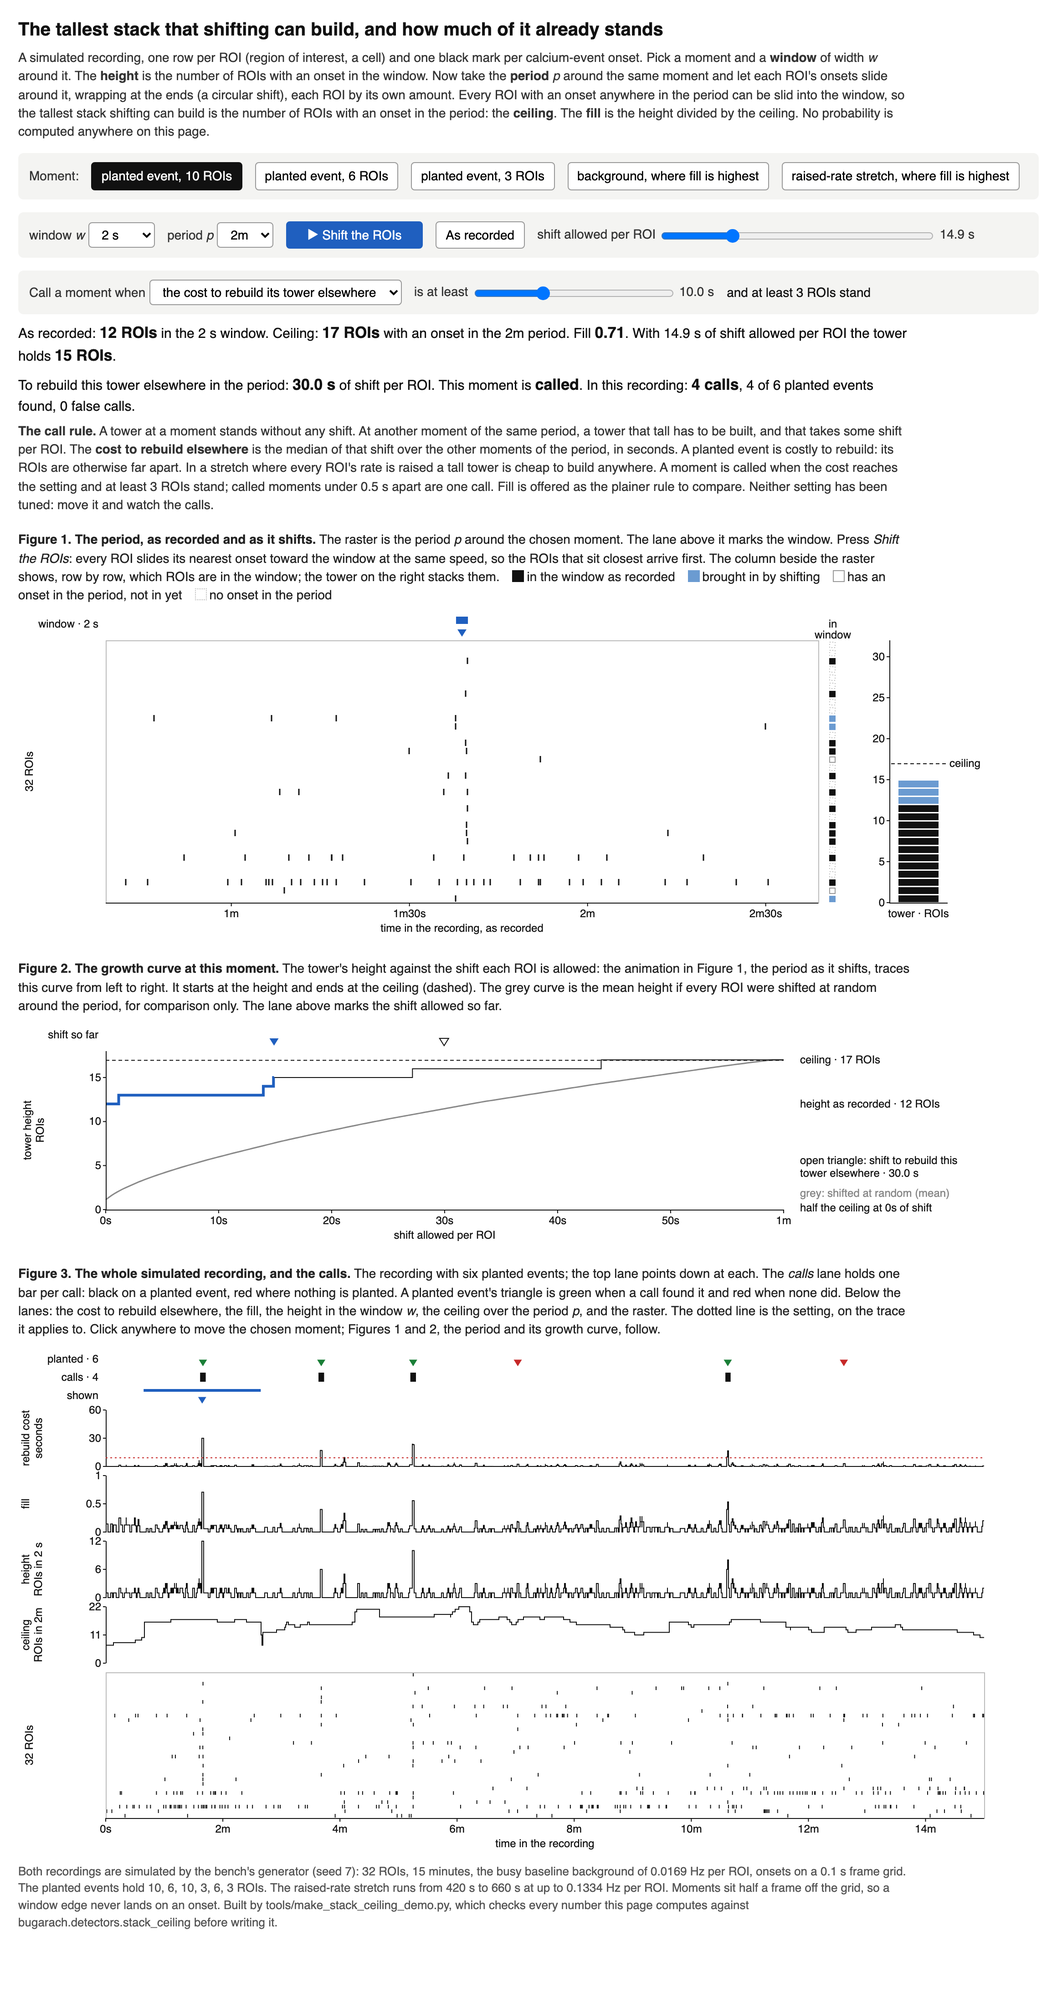
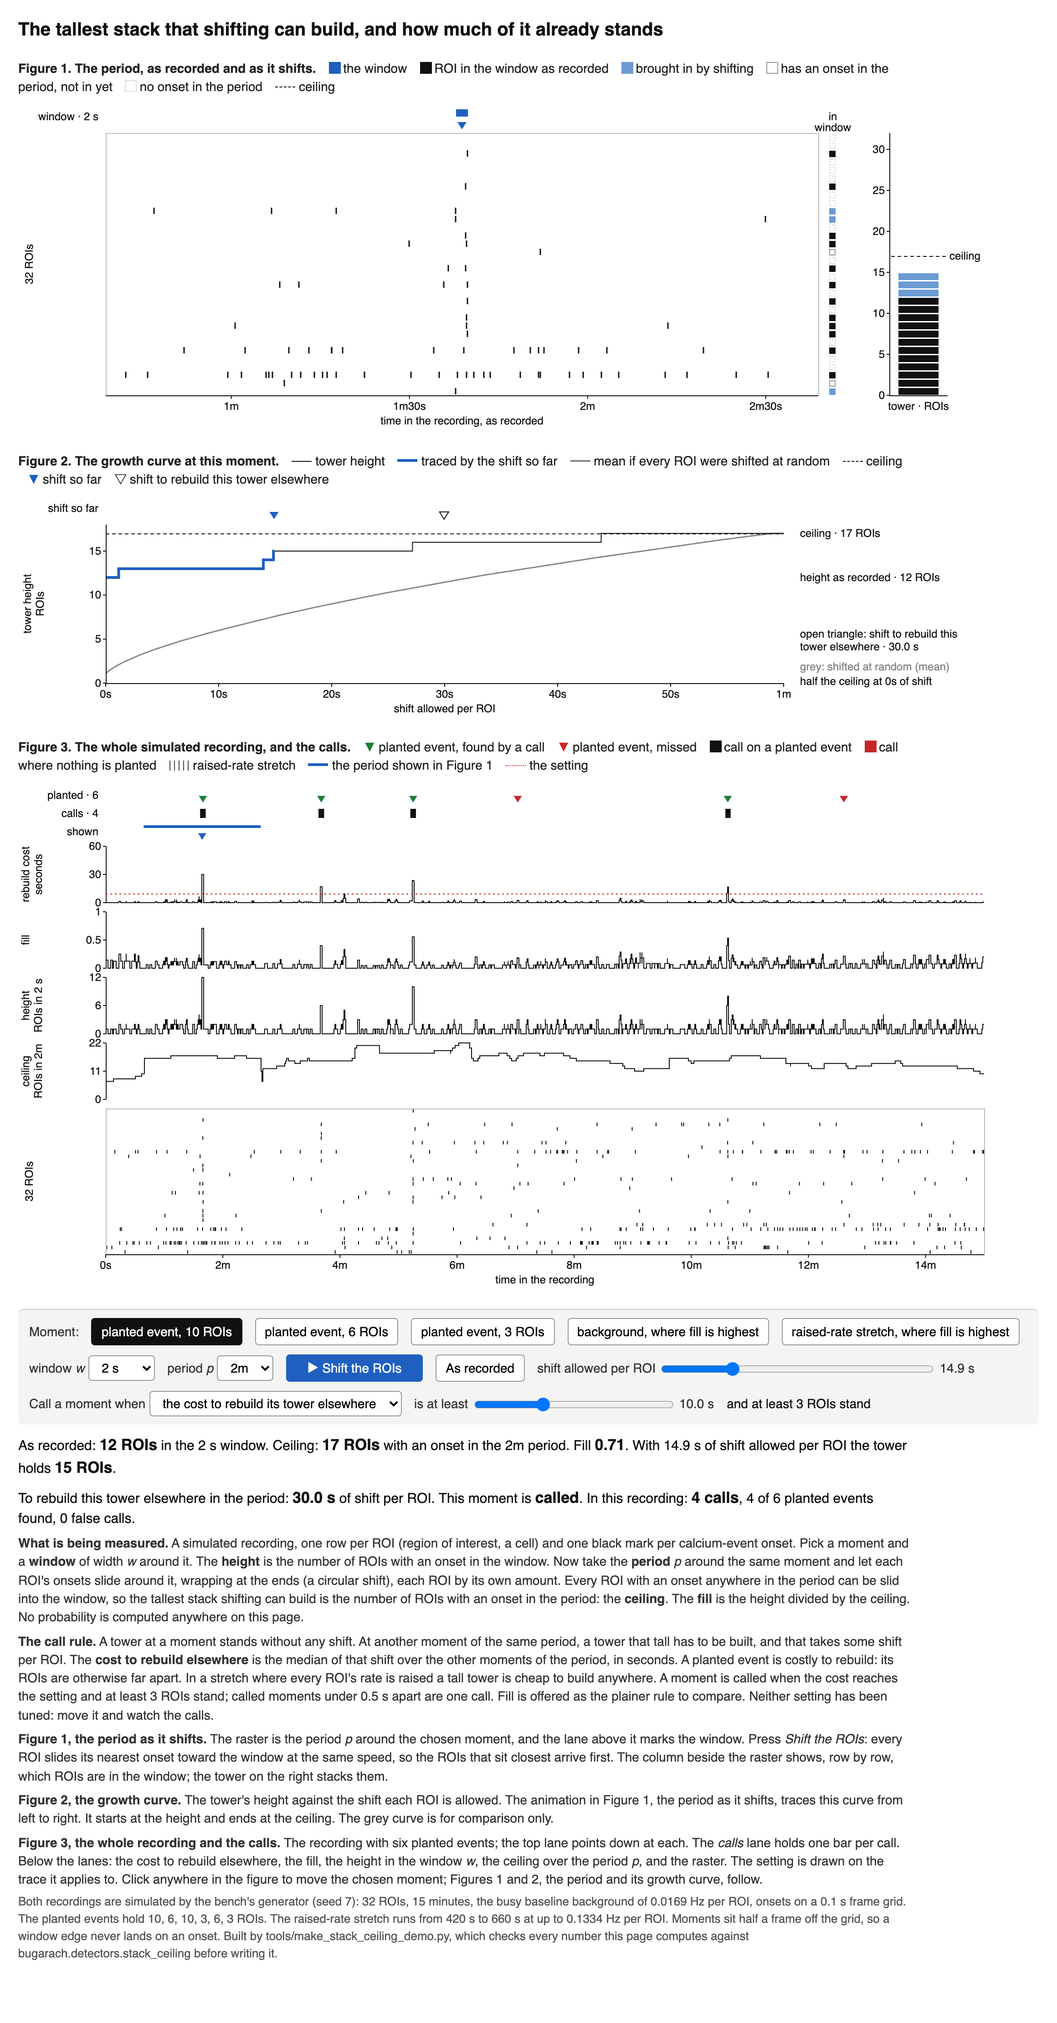
Stack ceiling page: figures first, then the tool row, then the text
Tony's layout: the three figures at the top, each with its legend, the controls after them and
the explanation last. The tool row keeps its place in the page after the figures and stays in
view while they are on screen, so the shift can be played while watching it.

diff --git a/docs/learned/runs/2026-10-08-stack-ceiling/explainer_stack-ceiling_20261008.html b/docs/learned/runs/2026-10-08-stack-ceiling/explainer_stack-ceiling_20261008.html
@@ -27,38 +27,88 @@
   .key { display: inline-block; width: 11px; height: 11px; vertical-align: -1px;
          margin: 0 3px 0 10px; border: 1px solid #111; }
   .note { color: #555; font-size: 13px; }
+  .line { display: inline-block; width: 22px; height: 0; vertical-align: 4px; margin: 0 4px 0 10px; }
+  .tri { margin: 0 3px 0 10px; }
+  .hash { display: inline-block; width: 22px; height: 11px; vertical-align: -1px; margin: 0 4px 0 10px;
+          background: repeating-linear-gradient(90deg, #444 0 1px, transparent 1px 5px); }
+  /* The tool row follows the figures in the page and stays in view while they are on screen. */
+  .tools { position: sticky; bottom: 0; z-index: 2; background: #f4f4f2; margin: 16px 0 10px;
+           padding: 4px 0; border-top: 1px solid #ccc; border-radius: 6px; }
+  .tools .controls { margin: 0; padding: 5px 12px; background: none; }
+  body.still .tools { position: static; }
 </style>
 </head>
 <body>
 <main>
 <h1>The tallest stack that shifting can build, and how much of it already stands</h1>
-<p class="how">A simulated recording, one row per ROI (region of interest, a cell) and one black
-mark per calcium-event onset. Pick a moment and a <b>window</b> of width <i>w</i> around it. The
-<b>height</b> is the number of ROIs with an onset in the window. Now take the <b>period</b>
-<i>p</i> around the same moment and let each ROI's onsets slide around it, wrapping at the ends
-(a circular shift), each ROI by its own amount. Every ROI with an onset anywhere in the period
-can be slid into the window, so the tallest stack shifting can build is the number of ROIs with
-an onset in the period: the <b>ceiling</b>. The <b>fill</b> is the height divided by the
-ceiling. No probability is computed anywhere on this page.</p>
+<figure>
+  <figcaption><b>Figure 1. The period, as recorded and as it shifts.</b>
+  <span class="key" style="background:#1f5fbf;border-color:#1f5fbf"></span>the window
+  <span class="key" style="background:#111"></span>ROI in the window as recorded
+  <span class="key" style="background:#6b9bd1;border-color:#6b9bd1"></span>brought in by shifting
+  <span class="key" style="background:#fff;border-color:#999"></span>has an onset in the period, not in yet
+  <span class="key" style="background:#fff;border:1px dotted #bbb"></span>no onset in the period
+  <span class="line" style="border-top:1px dashed #111"></span>ceiling
+  </figcaption>
+  <canvas id="fig1"></canvas>
+</figure>
 
-<div class="controls" id="scenes"><label>Moment:</label></div>
-<div class="controls">
-  <label>window <i>w</i> <select id="w"></select></label>
-  <label>period <i>p</i> <select id="p"></select></label>
-  <button class="play" id="play">▶ Shift the ROIs</button>
-  <button id="reset">As recorded</button>
-  <label>shift allowed per ROI <input type="range" id="s" min="0" max="60" step="0.1" value="0">
-    <span id="sval"></span></label>
+<figure>
+  <figcaption><b>Figure 2. The growth curve at this moment.</b>
+  <span class="line" style="border-top:1px solid #111"></span>tower height
+  <span class="line" style="border-top:3px solid #1f5fbf"></span>traced by the shift so far
+  <span class="line" style="border-top:2px solid #888"></span>mean if every ROI were shifted at random
+  <span class="line" style="border-top:1px dashed #111"></span>ceiling
+  <span class="tri" style="color:#1f5fbf">▼</span>shift so far
+  <span class="tri">▽</span>shift to rebuild this tower elsewhere
+  </figcaption>
+  <canvas id="fig2"></canvas>
+</figure>
+
+<figure>
+  <figcaption><b>Figure 3. The whole simulated recording, and the calls.</b>
+  <span class="tri" style="color:#1a7f37">▼</span>planted event, found by a call
+  <span class="tri" style="color:#c62828">▼</span>planted event, missed
+  <span class="key" style="background:#111"></span>call on a planted event
+  <span class="key" style="background:#c62828;border-color:#c62828"></span>call where nothing is planted
+  <span class="hash"></span>raised-rate stretch
+  <span class="line" style="border-top:3px solid #1f5fbf"></span>the period shown in Figure 1
+  <span class="line" style="border-top:1px dotted #c62828"></span>the setting
+  </figcaption>
+  <canvas id="fig3"></canvas>
+</figure>
+
+<div class="tools">
+  <div class="controls" id="scenes"><label>Moment:</label></div>
+  <div class="controls">
+    <label>window <i>w</i> <select id="w"></select></label>
+    <label>period <i>p</i> <select id="p"></select></label>
+    <button class="play" id="play">▶ Shift the ROIs</button>
+    <button id="reset">As recorded</button>
+    <label>shift allowed per ROI <input type="range" id="s" min="0" max="60" step="0.1" value="0">
+      <span id="sval"></span></label>
+  </div>
+  <div class="controls">
+    <label>Call a moment when <select id="score">
+      <option value="rebuild">the cost to rebuild its tower elsewhere</option>
+      <option value="fill">its fill</option></select></label>
+    <label>is at least <input type="range" id="th" style="width:220px"> <span id="thval"></span></label>
+    <span>and at least 3 ROIs stand</span>
+  </div>
 </div>
-<div class="controls">
-  <label>Call a moment when <select id="score">
-    <option value="rebuild">the cost to rebuild its tower elsewhere</option>
-    <option value="fill">its fill</option></select></label>
-  <label>is at least <input type="range" id="th" style="width:220px"> <span id="thval"></span></label>
-  <span>and at least 3 ROIs stand</span>
-</div>
+
 <p class="readout" id="readout"></p>
 <p class="readout" id="verdict"></p>
+
+<p class="how"><b>What is being measured.</b> A simulated recording, one row per ROI (region of
+interest, a cell) and one black mark per calcium-event onset. Pick a moment and a <b>window</b>
+of width <i>w</i> around it. The <b>height</b> is the number of ROIs with an onset in the window.
+Now take the <b>period</b> <i>p</i> around the same moment and let each ROI's onsets slide around
+it, wrapping at the ends (a circular shift), each ROI by its own amount. Every ROI with an onset
+anywhere in the period can be slid into the window, so the tallest stack shifting can build is
+the number of ROIs with an onset in the period: the <b>ceiling</b>. The <b>fill</b> is the
+height divided by the ceiling. No probability is computed anywhere on this page.</p>
+
 <p class="how"><b>The call rule.</b> A tower at a moment stands without any shift. At another
 moment of the same period, a tower that tall has to be built, and that takes some shift per ROI.
 The <b>cost to rebuild elsewhere</b> is the median of that shift over the other moments of the
@@ -68,39 +118,21 @@ called when the cost reaches the setting and at least 3 ROIs stand; called momen
 apart are one call. Fill is offered as the plainer rule to compare. Neither setting has been
 tuned: move it and watch the calls.</p>
 
-<figure>
-  <figcaption><b>Figure 1. The period, as recorded and as it shifts.</b> The raster is the period
-  <i>p</i> around the chosen moment. The lane above it marks the window. Press <i>Shift the
-  ROIs</i>: every ROI slides its nearest onset toward the window at the same speed, so the ROIs
-  that sit closest arrive first. The column beside the raster shows, row by row, which ROIs are
-  in the window; the tower on the right stacks them.
-  <span class="key" style="background:#111"></span>in the window as recorded
-  <span class="key" style="background:#6b9bd1;border-color:#6b9bd1"></span>brought in by shifting
-  <span class="key" style="background:#fff;border-color:#999"></span>has an onset in the period, not in yet
-  <span class="key" style="background:#fff;border:1px dotted #bbb"></span>no onset in the period
-  </figcaption>
-  <canvas id="fig1"></canvas>
-</figure>
+<p class="how"><b>Figure 1, the period as it shifts.</b> The raster is the period <i>p</i> around
+the chosen moment, and the lane above it marks the window. Press <i>Shift the ROIs</i>: every
+ROI slides its nearest onset toward the window at the same speed, so the ROIs that sit closest
+arrive first. The column beside the raster shows, row by row, which ROIs are in the window; the
+tower on the right stacks them.</p>
 
-<figure>
-  <figcaption><b>Figure 2. The growth curve at this moment.</b> The tower's height against the
-  shift each ROI is allowed: the animation in Figure 1, the period as it shifts, traces this
-  curve from left to right. It starts at the height and ends at the ceiling (dashed). The grey
-  curve is the mean height if every ROI were shifted at random around the period, for comparison
-  only. The lane above marks the shift allowed so far.</figcaption>
-  <canvas id="fig2"></canvas>
-</figure>
+<p class="how"><b>Figure 2, the growth curve.</b> The tower's height against the shift each ROI
+is allowed. The animation in Figure 1, the period as it shifts, traces this curve from left to
+right. It starts at the height and ends at the ceiling. The grey curve is for comparison only.</p>
 
-<figure>
-  <figcaption><b>Figure 3. The whole simulated recording, and the calls.</b>
-  <span id="fig3what"></span> The <i>calls</i> lane holds one bar per call: black on a planted
-  event, red where nothing is planted. A planted event's triangle is green when a call found it
-  and red when none did. Below the lanes: the cost to rebuild elsewhere, the fill, the height in
-  the window <i>w</i>, the ceiling over the period <i>p</i>, and the raster. The dotted line is
-  the setting, on the trace it applies to. Click anywhere to move the chosen moment; Figures 1
-  and 2, the period and its growth curve, follow.</figcaption>
-  <canvas id="fig3"></canvas>
-</figure>
+<p class="how"><b>Figure 3, the whole recording and the calls.</b> <span id="fig3what"></span>
+The <i>calls</i> lane holds one bar per call. Below the lanes: the cost to rebuild elsewhere, the
+fill, the height in the window <i>w</i>, the ceiling over the period <i>p</i>, and the raster.
+The setting is drawn on the trace it applies to. Click anywhere in the figure to move the chosen
+moment; Figures 1 and 2, the period and its growth curve, follow.</p>
 
 <p class="note" id="foot"></p>
 </main>

diff --git a/tools/stack_ceiling_demo.template.html b/tools/stack_ceiling_demo.template.html
@@ -27,38 +27,88 @@
   .key { display: inline-block; width: 11px; height: 11px; vertical-align: -1px;
          margin: 0 3px 0 10px; border: 1px solid #111; }
   .note { color: #555; font-size: 13px; }
+  .line { display: inline-block; width: 22px; height: 0; vertical-align: 4px; margin: 0 4px 0 10px; }
+  .tri { margin: 0 3px 0 10px; }
+  .hash { display: inline-block; width: 22px; height: 11px; vertical-align: -1px; margin: 0 4px 0 10px;
+          background: repeating-linear-gradient(90deg, #444 0 1px, transparent 1px 5px); }
+  /* The tool row follows the figures in the page and stays in view while they are on screen. */
+  .tools { position: sticky; bottom: 0; z-index: 2; background: #f4f4f2; margin: 16px 0 10px;
+           padding: 4px 0; border-top: 1px solid #ccc; border-radius: 6px; }
+  .tools .controls { margin: 0; padding: 5px 12px; background: none; }
+  body.still .tools { position: static; }
 </style>
 </head>
 <body>
 <main>
 <h1>The tallest stack that shifting can build, and how much of it already stands</h1>
-<p class="how">A simulated recording, one row per ROI (region of interest, a cell) and one black
-mark per calcium-event onset. Pick a moment and a <b>window</b> of width <i>w</i> around it. The
-<b>height</b> is the number of ROIs with an onset in the window. Now take the <b>period</b>
-<i>p</i> around the same moment and let each ROI's onsets slide around it, wrapping at the ends
-(a circular shift), each ROI by its own amount. Every ROI with an onset anywhere in the period
-can be slid into the window, so the tallest stack shifting can build is the number of ROIs with
-an onset in the period: the <b>ceiling</b>. The <b>fill</b> is the height divided by the
-ceiling. No probability is computed anywhere on this page.</p>
+<figure>
+  <figcaption><b>Figure 1. The period, as recorded and as it shifts.</b>
+  <span class="key" style="background:#1f5fbf;border-color:#1f5fbf"></span>the window
+  <span class="key" style="background:#111"></span>ROI in the window as recorded
+  <span class="key" style="background:#6b9bd1;border-color:#6b9bd1"></span>brought in by shifting
+  <span class="key" style="background:#fff;border-color:#999"></span>has an onset in the period, not in yet
+  <span class="key" style="background:#fff;border:1px dotted #bbb"></span>no onset in the period
+  <span class="line" style="border-top:1px dashed #111"></span>ceiling
+  </figcaption>
+  <canvas id="fig1"></canvas>
+</figure>
 
-<div class="controls" id="scenes"><label>Moment:</label></div>
-<div class="controls">
-  <label>window <i>w</i> <select id="w"></select></label>
-  <label>period <i>p</i> <select id="p"></select></label>
-  <button class="play" id="play">▶ Shift the ROIs</button>
-  <button id="reset">As recorded</button>
-  <label>shift allowed per ROI <input type="range" id="s" min="0" max="60" step="0.1" value="0">
-    <span id="sval"></span></label>
+<figure>
+  <figcaption><b>Figure 2. The growth curve at this moment.</b>
+  <span class="line" style="border-top:1px solid #111"></span>tower height
+  <span class="line" style="border-top:3px solid #1f5fbf"></span>traced by the shift so far
+  <span class="line" style="border-top:2px solid #888"></span>mean if every ROI were shifted at random
+  <span class="line" style="border-top:1px dashed #111"></span>ceiling
+  <span class="tri" style="color:#1f5fbf">▼</span>shift so far
+  <span class="tri">▽</span>shift to rebuild this tower elsewhere
+  </figcaption>
+  <canvas id="fig2"></canvas>
+</figure>
+
+<figure>
+  <figcaption><b>Figure 3. The whole simulated recording, and the calls.</b>
+  <span class="tri" style="color:#1a7f37">▼</span>planted event, found by a call
+  <span class="tri" style="color:#c62828">▼</span>planted event, missed
+  <span class="key" style="background:#111"></span>call on a planted event
+  <span class="key" style="background:#c62828;border-color:#c62828"></span>call where nothing is planted
+  <span class="hash"></span>raised-rate stretch
+  <span class="line" style="border-top:3px solid #1f5fbf"></span>the period shown in Figure 1
+  <span class="line" style="border-top:1px dotted #c62828"></span>the setting
+  </figcaption>
+  <canvas id="fig3"></canvas>
+</figure>
+
+<div class="tools">
+  <div class="controls" id="scenes"><label>Moment:</label></div>
+  <div class="controls">
+    <label>window <i>w</i> <select id="w"></select></label>
+    <label>period <i>p</i> <select id="p"></select></label>
+    <button class="play" id="play">▶ Shift the ROIs</button>
+    <button id="reset">As recorded</button>
+    <label>shift allowed per ROI <input type="range" id="s" min="0" max="60" step="0.1" value="0">
+      <span id="sval"></span></label>
+  </div>
+  <div class="controls">
+    <label>Call a moment when <select id="score">
+      <option value="rebuild">the cost to rebuild its tower elsewhere</option>
+      <option value="fill">its fill</option></select></label>
+    <label>is at least <input type="range" id="th" style="width:220px"> <span id="thval"></span></label>
+    <span>and at least 3 ROIs stand</span>
+  </div>
 </div>
-<div class="controls">
-  <label>Call a moment when <select id="score">
-    <option value="rebuild">the cost to rebuild its tower elsewhere</option>
-    <option value="fill">its fill</option></select></label>
-  <label>is at least <input type="range" id="th" style="width:220px"> <span id="thval"></span></label>
-  <span>and at least 3 ROIs stand</span>
-</div>
+
 <p class="readout" id="readout"></p>
 <p class="readout" id="verdict"></p>
+
+<p class="how"><b>What is being measured.</b> A simulated recording, one row per ROI (region of
+interest, a cell) and one black mark per calcium-event onset. Pick a moment and a <b>window</b>
+of width <i>w</i> around it. The <b>height</b> is the number of ROIs with an onset in the window.
+Now take the <b>period</b> <i>p</i> around the same moment and let each ROI's onsets slide around
+it, wrapping at the ends (a circular shift), each ROI by its own amount. Every ROI with an onset
+anywhere in the period can be slid into the window, so the tallest stack shifting can build is
+the number of ROIs with an onset in the period: the <b>ceiling</b>. The <b>fill</b> is the
+height divided by the ceiling. No probability is computed anywhere on this page.</p>
+
 <p class="how"><b>The call rule.</b> A tower at a moment stands without any shift. At another
 moment of the same period, a tower that tall has to be built, and that takes some shift per ROI.
 The <b>cost to rebuild elsewhere</b> is the median of that shift over the other moments of the
@@ -68,39 +118,21 @@ called when the cost reaches the setting and at least 3 ROIs stand; called momen
 apart are one call. Fill is offered as the plainer rule to compare. Neither setting has been
 tuned: move it and watch the calls.</p>
 
-<figure>
-  <figcaption><b>Figure 1. The period, as recorded and as it shifts.</b> The raster is the period
-  <i>p</i> around the chosen moment. The lane above it marks the window. Press <i>Shift the
-  ROIs</i>: every ROI slides its nearest onset toward the window at the same speed, so the ROIs
-  that sit closest arrive first. The column beside the raster shows, row by row, which ROIs are
-  in the window; the tower on the right stacks them.
-  <span class="key" style="background:#111"></span>in the window as recorded
-  <span class="key" style="background:#6b9bd1;border-color:#6b9bd1"></span>brought in by shifting
-  <span class="key" style="background:#fff;border-color:#999"></span>has an onset in the period, not in yet
-  <span class="key" style="background:#fff;border:1px dotted #bbb"></span>no onset in the period
-  </figcaption>
-  <canvas id="fig1"></canvas>
-</figure>
+<p class="how"><b>Figure 1, the period as it shifts.</b> The raster is the period <i>p</i> around
+the chosen moment, and the lane above it marks the window. Press <i>Shift the ROIs</i>: every
+ROI slides its nearest onset toward the window at the same speed, so the ROIs that sit closest
+arrive first. The column beside the raster shows, row by row, which ROIs are in the window; the
+tower on the right stacks them.</p>
 
-<figure>
-  <figcaption><b>Figure 2. The growth curve at this moment.</b> The tower's height against the
-  shift each ROI is allowed: the animation in Figure 1, the period as it shifts, traces this
-  curve from left to right. It starts at the height and ends at the ceiling (dashed). The grey
-  curve is the mean height if every ROI were shifted at random around the period, for comparison
-  only. The lane above marks the shift allowed so far.</figcaption>
-  <canvas id="fig2"></canvas>
-</figure>
+<p class="how"><b>Figure 2, the growth curve.</b> The tower's height against the shift each ROI
+is allowed. The animation in Figure 1, the period as it shifts, traces this curve from left to
+right. It starts at the height and ends at the ceiling. The grey curve is for comparison only.</p>
 
-<figure>
-  <figcaption><b>Figure 3. The whole simulated recording, and the calls.</b>
-  <span id="fig3what"></span> The <i>calls</i> lane holds one bar per call: black on a planted
-  event, red where nothing is planted. A planted event's triangle is green when a call found it
-  and red when none did. Below the lanes: the cost to rebuild elsewhere, the fill, the height in
-  the window <i>w</i>, the ceiling over the period <i>p</i>, and the raster. The dotted line is
-  the setting, on the trace it applies to. Click anywhere to move the chosen moment; Figures 1
-  and 2, the period and its growth curve, follow.</figcaption>
-  <canvas id="fig3"></canvas>
-</figure>
+<p class="how"><b>Figure 3, the whole recording and the calls.</b> <span id="fig3what"></span>
+The <i>calls</i> lane holds one bar per call. Below the lanes: the cost to rebuild elsewhere, the
+fill, the height in the window <i>w</i>, the ceiling over the period <i>p</i>, and the raster.
+The setting is drawn on the trace it applies to. Click anywhere in the figure to move the chosen
+moment; Figures 1 and 2, the period and its growth curve, follow.</p>
 
 <p class="note" id="foot"></p>
 </main>

diff --git a/tools/make_stack_ceiling_demo.py b/tools/make_stack_ceiling_demo.py
@@ -214,6 +214,7 @@ def check_and_shoot(html: Path, png: Path, want: list[dict], shift_sec: float) -
                 if not np.isclose(gs["half"], ws["half"], atol=1e-9):
                     raise SystemExit(f"recording {i}: half-ceiling shift differs")
         page.evaluate(f"window.__set(0, {shift_sec})")
+        page.evaluate("document.body.classList.add('still')")   # the tool row in its place
         page.screenshot(path=str(png), full_page=True)
         browser.close()
 
